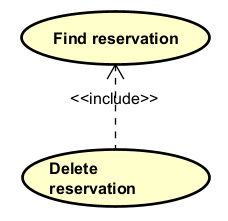
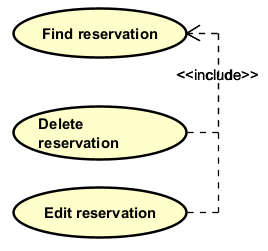
extend

diff --git a/Articles/SEP1/Use case diagrams/007 Extend.md b/Articles/SEP1/Use case diagrams/007 Extend.md
@@ -1,6 +1,122 @@
 # Extend relationship
 
-One use case can **extend** another use case. In this case, if we have use case A and use case B, use case A can sometimes proceed into use case B.
+One use case can **extend** another use case. This is a way to add new/alternative behavior to a use case, without modifying the original use case.
+
+There are several cases:
+
+- This could happen if use case A is finalized, and we do not want to (or cannot) fiddle with it anymore.\
+But then, later, we may discover new functionality, which is related to use case A. Instead of modifying use case A, we can create use case B.
+- The new addition is too complex to add to use case A, and it would be better to keep use case A simple.
+- The extended behaviour is optional.
+- The extended behaviour is reusable across multiple use cases.
+
+I don't see how this will be relevant for any of your semester projects.
+
+Instead, I will generally recommend just modifying the original use case, and adding the new behavior.
+
+Consider the below examples, and I am sorry for making the use cases pill-shaped rather the ovals.
+
+## Example 1: Payment Processing
 
 Consider the following example:
+- We have the main use case "Process Payment" that handles standard credit card payments.
+- We later add an extension "Apply Gift Card" to allow users to divert from the original payment path by applying a gift card.
+- The gift card option is optional and extends the payment process without changing the core payment functionality.
+
+**Diagram:**
+
+```mermaid
+graph BT
+    UC1([<font color=black>Apply Gift Card])
+    UC2([<font color=black>Process Payment])
+    
+    UC1 -.->|&lt;&lt;extend&gt;&gt;| UC2
+    
+    style UC1 fill:#ffffcc,stroke:#000,stroke-width:2px
+    style UC2 fill:#ffffcc,stroke:#000,stroke-width:2px
+```
+
+## Example 2: User Login
+
+- Base use case: "Login to System" handles standard username/password authentication.
+- Extension: "Login with Biometrics" extends the login process to support fingerprint or face recognition.
+- The biometric option is an alternative that extends the standard login without modifying it.
+
+**Diagram:**
+
+```mermaid
+graph BT
+    UC1([<font color=black>Login with Biometrics])
+    UC2([<font color=black>Login to System])
+    
+    UC1 -.->|<font color=black>&lt;&lt;extend&gt;&gt;| UC2
+    
+    style UC1 fill:#ffffcc,stroke:#000,stroke-width:2px
+    style UC2 fill:#ffffcc,stroke:#000,stroke-width:2px
+```
+
+## Example 3: Book Search
+
+- Base use case: "Search Books" allows basic search by title.
+- Extension: "Apply Advanced Filters" extends the search to include filters for genre, publication year, rating, etc.
+- Advanced filtering is optional functionality that extends the basic search.
+
+**Diagram:**
+
+```mermaid
+graph BT
+    UC1([<font color=black>Apply Advanced Filters])
+    UC2([<font color=black>Search Books])
+    
+    UC1 -.->|<font color=black>&lt;&lt;extend&gt;&gt;| UC2
+    
+    style UC1 fill:#ffffcc,stroke:#000,stroke-width:2px
+    style UC2 fill:#ffffcc,stroke:#000,stroke-width:2px
+```
+
+## Example 4: Order Processing
+
+- Base use case: "Place Order" handles the standard order submission.
+- Extension: "Add Gift Message" allows customers to include a personalized message with their order.
+- The gift message is optional and extends the order placement without modifying core order logic.
+
+**Diagram:**
+
+```mermaid
+graph BT
+    UC1([<font color=black>Add Gift Message])
+    UC2([<font color=black>Place Order])
+    
+    UC1 -.->|<font color=black>&lt;&lt;extend&gt;&gt;| UC2
+    
+    style UC1 fill:#ffffcc,stroke:#000,stroke-width:2px
+    style UC2 fill:#ffffcc,stroke:#000,stroke-width:2px
+```
+
+## Example 5: File Upload
+
+- Base use case: "Upload File" handles standard file uploads.
+- Extension: "Scan for Viruses" extends the upload process to include an optional security scan.
+- Virus scanning is an enhancement that can be added without changing the base upload functionality.
+
+**Diagram:**
+
+```mermaid
+graph BT
+    UC1([<font color=black>Scan for Viruses])
+    UC2([<font color=black>Upload File])
+    
+    UC1 -.->|<font color=black>&lt;&lt;extend&gt;&gt;| UC2
+    
+    style UC1 fill:#ffffcc,stroke:#000,stroke-width:2px
+    style UC2 fill:#ffffcc,stroke:#000,stroke-width:2px
+```
+
+## When to Use Extend
+
+Use extend when:
+- The new functionality is **optional** or **conditional**
+- You want to add behavior without modifying the original use case
+- The extension represents an alternative or exceptional flow
+- The base use case can complete successfully without the extension
 

diff --git a/Articles/SEP1/Use case diagrams/006 Include.md b/Articles/SEP1/Use case diagrams/006 Include.md
@@ -1,10 +1,18 @@
 
 ## Include relationship
 
-One use case can **include** another use case. In this case, if we have use case A and use case B, in order to execute use case A, use case B must be executed first.
+One use case can **include** another use case. 
+
+It is common to have some _partial behavior_ that is common across several use cases.
+For example, the description of paying by credit may occur in several use cases, including Process Sale, Process Rental, Contribute to Lay-away Plan, and so forth.
+
 
 Consider the following example:
 
 ![Include example](Resources/Include.png)
 
-This means that if the user wants to "delete a reservation", they **_must_** first find it. You **_cannot_** delete a reservation, without first finding it.
+This means that if the user wants to "delete a reservation", or "edit a reservation", they **_must_** first find it. You **_cannot_** delete/edit a reservation, without first finding it.
+
+
+# Examples
+

diff --git a/Articles/SEP1/Use case diagrams/005 Use case relationships.md b/Articles/SEP1/Use case diagrams/005 Use case relationships.md
@@ -2,12 +2,16 @@
 
 Sometimes use cases are related, or somehow connected. Generally that means two use cases are perfomed on after the other, as a whole. 
 
+For example, a use case such as _Handle Credit_ Payment may be part of several regular use cases, such as _Process Sale_ and _Process Rental_.
+
+Adding the relationships is a way to organize, and clarify the use cases.
+
 We have different kinds of relationships, I will cover two of them here.
 
 The relationships are:
 - Include
 - Extend
 
-Include is about one use case always requires another use case to be executed first.
+Include is about one use case always requiring another use case to be executed first.
 
 Extend is about one use case can sometimes proceed into another use case.

diff --git a/Articles/SEP1/Actors/005 Exercises.md b/Articles/SEP1/Actors/005 Exercises.md
@@ -2,11 +2,16 @@
 
 Below you will find ~~descriptions~~ titles of systems in different domains. Think about which kinds of actors are present in each system, and name them.
 
+**A:**
+
 - Exercise 1: A system for a library
 - Exercise 2: A system for a bank
 - Exercise 3: A system for a hospital
 - Exercise 4: A system for a university
 - Exercise 5: A system for a grocery store
+
+**B:**
+
 - Exercise 6: A system for a restaurant
 - Exercise 7: A system for a hotel
 - Exercise 8: A system for a car dealership
